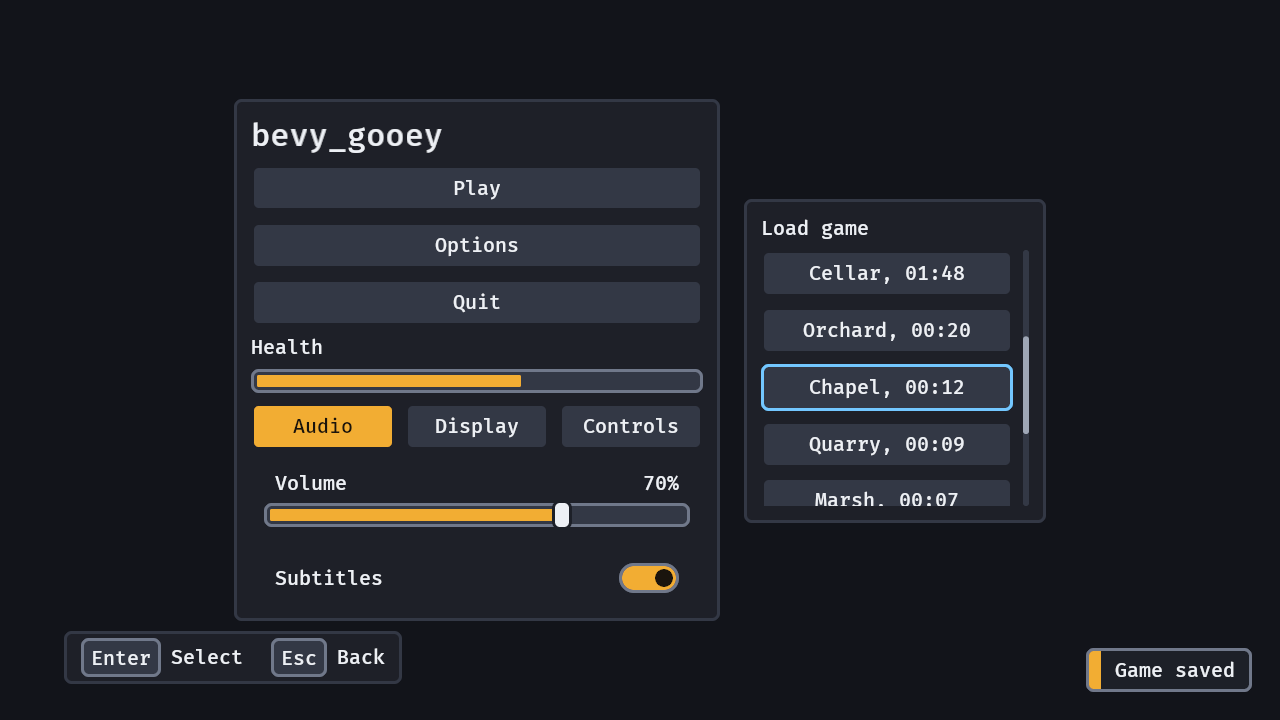
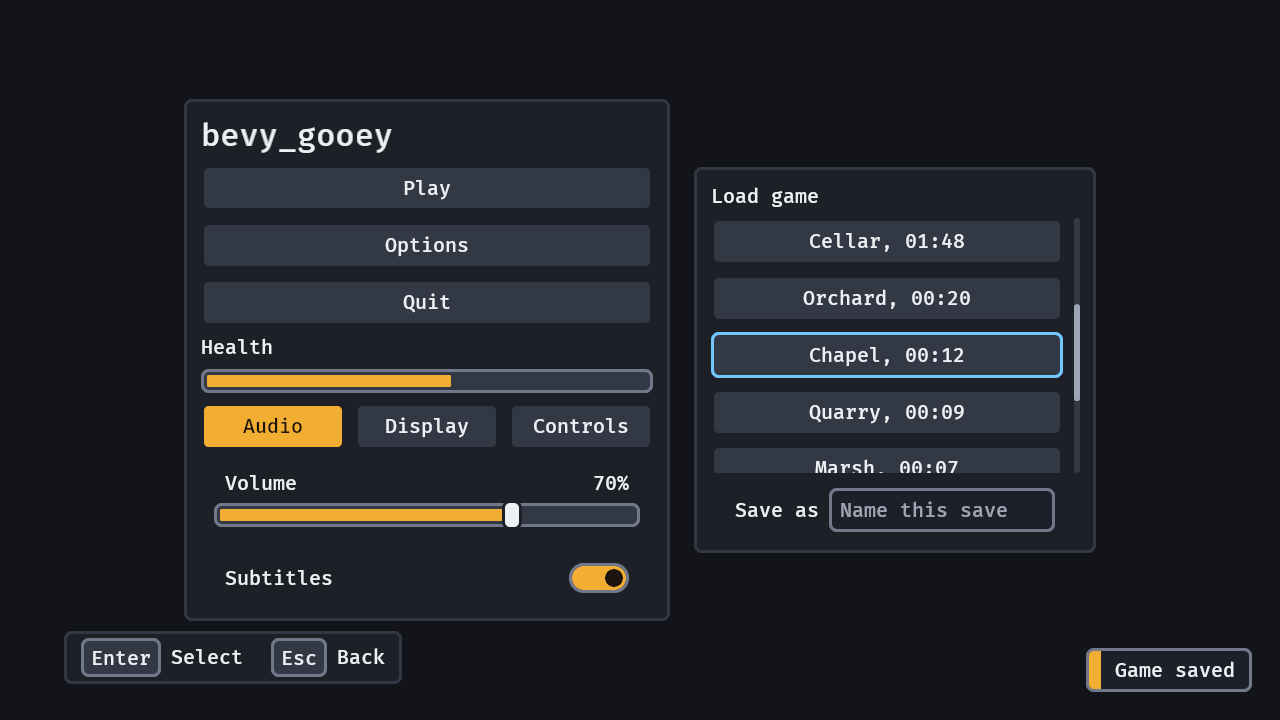
Docs: text input (guide page, README bullet, caption and text-input.gif, regenerated gallery.png and gallery.gif, host-api, media list, AGENTS layout and rules, changelog, research deviation)

diff --git a/docs/media/README.md b/docs/media/README.md
@@ -11,8 +11,9 @@ sets the window, `GOOEY_SKIN` the preset, and `GOOEY_KEYS` stages the input each
 
 | file | what it shows | command that regenerates it | captured | shows |
 |---|---|---|---|---|
-| `gallery.png` | the still: Play/Options/Quit, a health meter, the Audio, Display and Controls tabs with Audio lit over the Volume slider and the Subtitles switch, the Load game list four and a half rows tall with its rail and the ring on `Chapel, 00:12`, the legend "Enter Select, Esc Back" in the bottom-left corner and one toast at the bottom right | `GOOEY_FRAMES=200 GOOEY_SHOT=docs/media/gallery.png GOOEY_KEY_EVERY=14 GOOEY_KEYS=slots,down,down,down,pagedown,toast GOOEY_SIZE=1280x720 cargo run --release --example gallery` | 2026-10-31 | 0.6.0 |
-| `gallery.gif` | the hero (5.9 s, 960×540): the ring walks down the save slots from Autosave to `Mill, 03:02`, Page Down moves it to `Chapel, 00:12`, the meter drains, and a "Game saved" toast appears; the legend "Enter Select, Esc Back" stands in the bottom-left corner throughout | the same run with `GOOEY_SHOT_DIR=/tmp/gooey-gif GOOEY_SHOT_FROM=30 GOOEY_SHOT_EVERY=2` (make the directory first: the capture does not), then `ffmpeg -framerate 15 -pattern_type glob -i '/tmp/gooey-gif/f_*.png' -vf "fps=15,scale=960:-1:flags=lanczos,split[a][b];[a]palettegen=stats_mode=diff[p];[b][p]paletteuse=dither=bayer" -loop 0 docs/media/gallery.gif` (a glob: the capture can skip a frame number) | 2026-10-31 | 0.6.0 |
+| `gallery.png` | the still: Play/Options/Quit, a health meter, the Audio, Display and Controls tabs with Audio lit over the Volume slider and the Subtitles switch, the Load game list four and a half rows tall with its rail and the ring on `Chapel, 00:12`, the Save as field under the list showing its hint "Name this save", the legend "Enter Select, Esc Back" in the bottom-left corner and one toast at the bottom right | `GOOEY_FRAMES=200 GOOEY_SHOT=docs/media/gallery.png GOOEY_KEY_EVERY=14 GOOEY_KEYS=slots,down,down,down,pagedown,toast GOOEY_SIZE=1280x720 cargo run --release --example gallery` | 2026-11-01 | 0.7.0 |
+| `gallery.gif` | the hero (5.9 s, 960×540): the ring walks down the save slots from Autosave to `Mill, 03:02`, Page Down moves it to `Chapel, 00:12`, the meter drains, and a "Game saved" toast appears; the Save as field stands under the list and the legend "Enter Select, Esc Back" in the bottom-left corner throughout | the same run with `GOOEY_SHOT_DIR=/tmp/gooey-gif GOOEY_SHOT_FROM=30 GOOEY_SHOT_EVERY=2` (make the directory first: the capture does not), then `ffmpeg -framerate 15 -pattern_type glob -i '/tmp/gooey-gif/f_*.png' -vf "fps=15,scale=960:-1:flags=lanczos,split[a][b];[a]palettegen=stats_mode=diff[p];[b][p]paletteuse=dither=bayer" -loop 0 docs/media/gallery.gif` (a glob: the capture can skip a frame number) | 2026-11-01 | 0.7.0 |
+| `text-input.gif` | text input (5.0 s, 600×560, the right panel and the window's bottom-right corner): the Save as field rests as a quiet outline over the muted hint "Name this save"; its frame turns blue the moment it has focus and a caret follows "Aria" as it is typed; Enter shows the toast "Saved as Aria" (bottom right) and the field keeps focus; Up moves the ring onto the save slot `Cellar, 01:48` and the field goes back to its quiet outline with "Aria" kept | `GOOEY_HEALTH=60 GOOEY_FRAMES=170 GOOEY_KEY_EVERY=12 GOOEY_KEYS=name,type=Aria,enter,up GOOEY_SIZE=1280x720 GOOEY_SHOT=/tmp/text-input.png GOOEY_SHOT_DIR=/tmp/gooey-text GOOEY_SHOT_FROM=26 GOOEY_SHOT_EVERY=2 cargo run --release --example gallery` (make the directory first), then `ffmpeg -framerate 15 -pattern_type glob -i '/tmp/gooey-text/f_*.png' -vf "crop=600:560:680:150,fps=15,split[a][b];[a]palettegen=stats_mode=diff[p];[b][p]paletteuse=dither=bayer" -loop 0 docs/media/text-input.gif` | 2026-11-01 | 0.7.0 |
 | `tabs.gif` | the tabs (4.7 s, 520×540, the settings panel only): the ring moves from Quit onto the lit Audio tab; Right turns to Display, Right to Controls, Right wraps to Audio; Down enters the page on the Volume slider; Ctrl+PageDown turns to Display and to Controls with the ring landing on Quality and on Jump (the first of the Controls page's two rebinding rows); Ctrl+PageUp back to Display | `GOOEY_HEALTH=60 GOOEY_FRAMES=190 GOOEY_KEY_EVERY=16 GOOEY_KEYS=down,down,down,right,right,right,down,nexttab,nexttab,prevtab GOOEY_SIZE=1280x720 GOOEY_SHOT=/tmp/tabs.png GOOEY_SHOT_DIR=/tmp/gooey-tabs GOOEY_SHOT_FROM=56 GOOEY_SHOT_EVERY=2 cargo run --release --example gallery`, then `ffmpeg -framerate 15 -pattern_type glob -i '/tmp/gooey-tabs/f_*.png' -vf "crop=520:540:224:90,fps=15,split[a][b];[a]palettegen=stats_mode=diff[p];[b][p]paletteuse=dither=bayer" -loop 0 docs/media/tabs.gif` | 2026-11-01 | main after 0.4.0 |
 | `binding.gif` | rebinding (4.7 s, 520×290, the lower half of the settings panel): the Controls tab is clicked, Down puts the ring on Jump (a keycap saying Space), Enter lights the keycap amber with "Press a key, Esc exits", Q turns it to Q (the gallery toasts "Jump is Q" at the window's corner, outside the crop), Down moves to Use (A), Enter lights its keycap with "Press a button, Menu exits" and Escape puts it back, still A | `GOOEY_HEALTH=60 GOOEY_FRAMES=162 GOOEY_KEY_EVERY=18 GOOEY_KEYS=tab3,down,enter,q,down,enter,escape GOOEY_SIZE=1280x720 GOOEY_SHOT=/tmp/binding.png GOOEY_SHOT_DIR=/tmp/gooey-binding GOOEY_SHOT_FROM=26 GOOEY_SHOT_EVERY=2 cargo run --release --example gallery`, then `ffmpeg -framerate 15 -pattern_type glob -i '/tmp/gooey-binding/f_*.png' -vf "crop=520:290:216:330,fps=15,split[a][b];[a]palettegen=stats_mode=diff[p];[b][p]paletteuse=dither=bayer" -loop 0 docs/media/binding.gif` | 2026-11-01 | main after 0.4.0 |
 | `cancel.gif` | Back (4.1 s, 848×540, both panels): the ring moves onto Options and then Quit, Enter opens the dialog over the dimmed screen (the title "Leave the game?", a line of body under it and the choices Leave and Stay, the ring on Stay), and Escape closes it with the ring back on Quit (the close a pad's B makes too) | `GOOEY_HEALTH=60 GOOEY_FRAMES=142 GOOEY_KEY_EVERY=18 GOOEY_KEYS=untip,down,down,enter,escape GOOEY_SIZE=1280x720 GOOEY_SHOT=/tmp/cancel.png GOOEY_SHOT_DIR=/tmp/gooey-cancel GOOEY_SHOT_FROM=26 GOOEY_SHOT_EVERY=2 cargo run --release --example gallery`, then `ffmpeg -framerate 15 -pattern_type glob -i '/tmp/gooey-cancel/f_*.png' -vf "crop=848:540:216:90,fps=15,split[a][b];[a]palettegen=stats_mode=diff[p];[b][p]paletteuse=dither=bayer" -loop 0 docs/media/cancel.gif` (`untip` takes Options' tooltip off first, so the first beat is a still screen) | 2026-10-31 | main after 0.4.0 (the release after it) |

diff --git a/CHANGELOG.md b/CHANGELOG.md
@@ -4,7 +4,7 @@
 
 ### Added
 
-- `text_input(label, value)`: a row for a line of text the player types (a name, a seed, a server address, what to call a save), the first widget a game needs that no other could be: the label on the left, outside the field and always visible, and a framed field on the right, Bevy 0.20's own headless `TextInput` and `EditableText` (a caret, a selection, copy and paste, IME), 16 characters wide at the body size and a button's height at least, so the row never changes size while the player types. A focused field takes the keys at once (no step to begin typing); Left, Right, Home and End are the caret's, and **Up, Down, Tab, the D-pad and Escape leave it**, so a field never traps focus (WCAG 2.1.2); a click on the label, the field or the row's padding focuses it. The row keeps its state in `TextInputValue(String)` (read it, or write it to change the field from code with no event coming back) and sends Bevy's `ValueChange<String>` for each edit that changes the text (`is_final` false) and once when the edit ends (Enter, a submit even with nothing changed, or focus leaving after a change). `TextHint` (muted words while the field is empty; the label is never the hint, NN/g) and `TextLimit` (a most characters; never cuts a value the game set) go on the row.
+- `text_input(label, value)`: a row for a line of text the player types (a name, a seed, a server address, what to call a save), the first widget a game needs that no other could be: the label on the left, outside the field and always visible, and a framed field on the right, Bevy 0.20's own headless `TextInput` and `EditableText` (a caret, a selection, copy and paste, IME), 17 characters wide at the body size (16, and the one character of room Bevy keeps after the caret, so a name that fills a `TextLimit(16)` shows whole) and a button's height at least, so the row never changes size while the player types. A focused field takes the keys at once (no step to begin typing); Left, Right, Home and End are the caret's, and **Up, Down, Tab, the D-pad and Escape leave it**, so a field never traps focus (WCAG 2.1.2); a click on the label, the field or the row's padding focuses it. The row keeps its state in `TextInputValue(String)` (read it, or write it to change the field from code with no event coming back) and sends Bevy's `ValueChange<String>` for each edit that changes the text (`is_final` false) and once when the edit ends (Enter, a submit even with nothing changed, or focus leaving after a change). `TextHint` (muted words while the field is empty; the label is never the hint, NN/g) and `TextLimit` (a most characters; never cuts a value the game set) go on the row.
 - `TextEditing`, on the row exactly while its field has focus, and `is_text_editing`, a run condition: a game gates its own hotkeys on `not(is_text_editing)` so typing a name does not walk the character, and a host opens the platform's on-screen keyboard for a pad player when `TextEditing` is added (Valve requires one on Steam Deck; its keys arrive as ordinary key events the field takes). `track_text_editing` (in `GooeySystems::Navigate`, second in the set) and `update_text_inputs` (in `GooeySystems::Style`, before `apply_skin`), `TextInputOf` (on the field and the hint), `TextEdited`; `Role::{TextInput, TextCell, TextField, TextHint}`, styled in `apply_skin` like every other part: the field is an outlined box in the panel's own colour (the `outline` frame, the muted text colour under the pointer, the `focus_ring` while it holds focus **whether or not focus is shown**: a pointer press hides every other ring, but a caret already says who has the keys), its caret the text colour and its selection the accent with the accent's text.
 - `GooeySkin::problems()` checks two more pairs, since the hint and the ring now stand on the panel: `text_muted on surface` at 4.5:1 and `focus_ring on surface` at 3:1 (both presets pass).
 - The gallery's right panel holds a **Save as** field (`GOOEY_KEYS` tokens `name` and `type=Aria`); `docs/research/text-input.md`, `docs/guide/text-input.md` and `docs/media/text-input.gif`.

diff --git a/README.md b/README.md
@@ -11,16 +11,16 @@ navigation, on Bevy's own headless widgets.
 [![Bevy](https://img.shields.io/badge/bevy-0.20-blue.svg)](https://bevyengine.org)
 [![licence](https://img.shields.io/badge/licence-MIT%20OR%20Apache--2.0-blue.svg)](#who-and-licence)
 
-![A menu panel with a tab strip and a Load game list: the focus ring walks down the save slots from Autosave to Mill, 03:02, Page Down moves it to Chapel, 00:12, the health meter drains, and a "Game saved" toast appears at the bottom right; the legend "Enter Select, Esc Back" stands in the bottom-left corner throughout](https://raw.githubusercontent.com/bevy-coven/bevy_gooey/main/docs/media/gallery.gif)
+![A menu panel with a tab strip and a Load game list with a Save as field under it: the focus ring walks down the save slots from Autosave to Mill, 03:02, Page Down moves it to Chapel, 00:12, the health meter drains, and a "Game saved" toast appears at the bottom right; the legend "Enter Select, Esc Back" stands in the bottom-left corner throughout](https://raw.githubusercontent.com/bevy-coven/bevy_gooey/main/docs/media/gallery.gif)
 
 *`examples/gallery`: two panels, a meter draining, settings in tabs (a slider and a switch on the first), a list
-that scrolls to follow focus, toasts, and the Select and Back legend in the corner.*
+that scrolls to follow focus with a field to name a save under it, toasts, and the Select and Back legend in the corner.*
 
 ![The same gallery at rest: the left panel with Play, Options and Quit, the meter, the Audio, Display
 and Controls tabs with Audio lit over the Volume slider and the Subtitles switch; the right a Load game
-list four and a half rows tall with a rail and its thumb, the ring on Chapel, 00:12; the legend "Enter
-Select, Esc Back" at the bottom left and one toast at the bottom
-right](https://raw.githubusercontent.com/bevy-coven/bevy_gooey/main/docs/media/gallery.png)
+list four and a half rows tall with a rail and its thumb, the ring on Chapel, 00:12, and a Save as field
+under it showing "Name this save"; the legend "Enter Select, Esc Back" at the bottom left and one toast
+at the bottom right](https://raw.githubusercontent.com/bevy-coven/bevy_gooey/main/docs/media/gallery.png)
 
 *The still: the dark skin, 1280 × 720.*
 
@@ -132,6 +132,10 @@ leaves), and the save-slot list scrolls with the wheel, a drag on its thumb or P
 ![The gallery's settings panel after the Controls tab is clicked: the ring goes down to Jump, whose keycap says Space; Enter lights the keycap amber with "Press a key, Esc exits", Q turns it to Q, and Down to Use (A), whose keycap lights with "Press a button, Menu exits" until Escape puts it back](https://raw.githubusercontent.com/bevy-coven/bevy_gooey/main/docs/media/binding.gif)
 
 *Rebinding: `binding("Jump", Binding::Key(KeyCode::Space))` waits for the next press and says it once as a `ValueChange<Binding>`. The panel never moves, and nothing else hears the key.*
+
+![The gallery's Load game list with the Save as field under it: the field rests as a quiet outline over the muted hint "Name this save", its frame turns blue with a caret while "Aria" is typed, Enter shows the toast "Saved as Aria" at the window's corner, and Up moves the ring onto the save slot Cellar, 01:48 with the field back to its quiet outline and its text kept](https://raw.githubusercontent.com/bevy-coven/bevy_gooey/main/docs/media/text-input.gif)
+
+*Text input: `text_input("Save as", "")` takes the keys the moment it has focus, says each edit once as a `ValueChange<String>` and the end of the edit (Enter, or focus leaving) with `is_final`. Up leaves it: a field never traps focus, and the row never moves while the player types.*
 
 ![The gallery's menu panel and Load game list: the ring moves onto Options and then Quit, Enter opens the dialog "Leave the game?" with a line of body and the choices Leave and Stay over the dimmed screen with the ring on Stay, and Escape closes it with the ring back on Quit](https://raw.githubusercontent.com/bevy-coven/bevy_gooey/main/docs/media/cancel.gif)
 

diff --git a/docs/research/text-input.md b/docs/research/text-input.md
@@ -53,7 +53,7 @@ A click on a label should focus its field (the HTML `label` behaviour that makes
 |state|`TextInputValue(pub String)`; `TextEditing` on the row while its field has focus; optional `TextHint(pub String)`, `TextLimit(pub usize)` on the row|
 |event|`ValueChange<String>` on the row; `is_final` false per edit, true on Enter and on leaving after an edit|
 |keys|characters, Backspace, Delete, Left, Right, Home, End, selection, copy, cut, paste, IME: Bevy's; Up, Down: focus moves; Tab: Bevy's; Escape: Bevy's blur, then bubbles; Enter: `is_final`|
-|look|row: a toggle's frame (a line, transparent), `padding * 1.5` at the sides, `min_height` `min_target`; field: `min_height` `min_target` (44 px), `0.6 padding` at the sides, a line of frame, `radius`, opaque panel fill; width 16 characters of "0" at the body size (scales with `text_scale`); hint `text_muted`; caret `text`, selection `accent`, selected text `accent_text`, an unfocused selection none|
+|look|row: a toggle's frame (a line, transparent), `padding * 1.5` at the sides, `min_height` `min_target`; field: `min_height` `min_target` (44 px), `0.6 padding` at the sides, a line of frame, `radius`, opaque panel fill; width 17 characters of "0" at the body size (scales with `text_scale`; 16 and the caret's room, see Deviations); hint `text_muted`; caret `text`, selection `accent`, selected text `accent_text`, an unfocused selection none|
 |set|`track_text_editing` in `GooeySystems::Navigate`, first; `update_text_inputs` in `GooeySystems::Style` before `apply_skin`|
 
 ## Validation targets
@@ -79,7 +79,8 @@ A "Name" row in the gallery's Options tab, a field a button's height with a hint
 - **Up and Down leave the field though Bevy's handler also consumes them.** Bevy moves the caret to the line's start for a press the crate's navigation also acts on; on a one-line field that is harmless and the focus move wins. A design default.
 - **A pad has no way to edit and the crate adds none.** No on-screen keyboard (Wobbrock: selection keyboards are slow, and every platform ships its own, Valve requires it); `TextEditing` is the hook. A design default.
 - **The frame stays lit under focus that is not "visible".** Every other ring follows `InputFocusVisible`, which a pointer press clears; a field keeps its ring because its caret already shows the focus (browsers do the same for text fields). A design default.
-- Assumed decisions (owner may override), all above: `ValueChange<String>` on the row with Bevy's `is_final`; Enter always final and not leaving the field; Escape as Bevy has it; `TextEditing` and `is_text_editing` as the host's hook; the hint and limit as components on the row; the field's fill the panel's colour; a 16-character width.
+- **The field is 17 characters wide, not 16 (found by capturing it).** Bevy's scroll rule "keep[s] one `0`-advance of space visible from the caret position onward to leave room for the next typed character" (`bevy_text-0.20.0/src/scroll.rs`), so a 16-wide field holding a full `TextLimit(16)` name scrolled its first letter away by 12 px at the moment the player finished typing (the gallery's own Save as field at the limit showed "ria-of-the-Long"). One more character shows all 16 with the caret. A design default; `a_line_that_fills_a_limit_of_sixteen_shows_whole_with_its_caret` holds it (it fails at 16 wide).
+- Assumed decisions (owner may override), all above: `ValueChange<String>` on the row with Bevy's `is_final`; Enter always final and not leaving the field; Escape as Bevy has it; `TextEditing` and `is_text_editing` as the host's hook; the hint and limit as components on the row; the field's fill the panel's colour; a 17-character width.
 
 ## Pending index
 

diff --git a/docs/guide/text-input.md b/docs/guide/text-input.md
@@ -23,7 +23,7 @@ fn save_dialog(mut commands: Commands) {
 - **A field never traps focus.** Left, Right, Home and End are the caret's. **Up, Down and Tab leave the field**, and so does the D-pad: a pad cannot move a caret, so every pad direction moves focus. **Escape ends the edit** (Bevy's own handler blurs the field and lets the press go on) and, inside a `dialog()`, is Back as everywhere: one `Cancel` for the dialog, with the text left as typed for the game to keep or drop. With no dialog open nothing is sent, so Escape stays your pause key. The crate's keys are in [navigation](navigation.md).
 - **The frame says who has the keys.** The outline at rest, a lighter frame under the pointer, the focus ring while the field holds focus, **even after a pointer press hid every other ring**: a click puts the caret in the field, and the frame agrees with it. The caret is the text colour, the selection the accent with the accent's text. `GooeySkin::problems()` checks the hint (`text_muted`) against the panel at 4.5:1 and the ring against it at 3:1.
 - **The hint is supplementary, never the label.** `TextHint` shows muted words in the field while it is empty ("Name this save"). The label stays outside and always shows: a hint that is the only label disappears when the player starts typing, which is when they need it ([NN/g](https://www.nngroup.com/articles/form-design-placeholders/)).
-- **It never changes size.** The field holds 16 characters at the body size (it follows `text_scale`) and scrolls past that; typing 60 characters moves no pixel of the row, the panel or its neighbours, at any scale. The field is at least `min_target` high.
+- **It never changes size.** The field is 17 characters wide at the body size (it follows `text_scale`): 16, and the one character of room Bevy keeps after the caret, so a name that fills a `TextLimit(16)` shows whole with its caret. Past that it scrolls; typing 60 characters moves no pixel of the row, the panel or its neighbours, at any scale. The field is at least `min_target` high.
 - **A disabled row** (`InteractionDisabled` on it) disables its field: muted text, no edit, Left and Right move focus again.
 
 ## For a game that opens a keyboard, or has hotkeys
